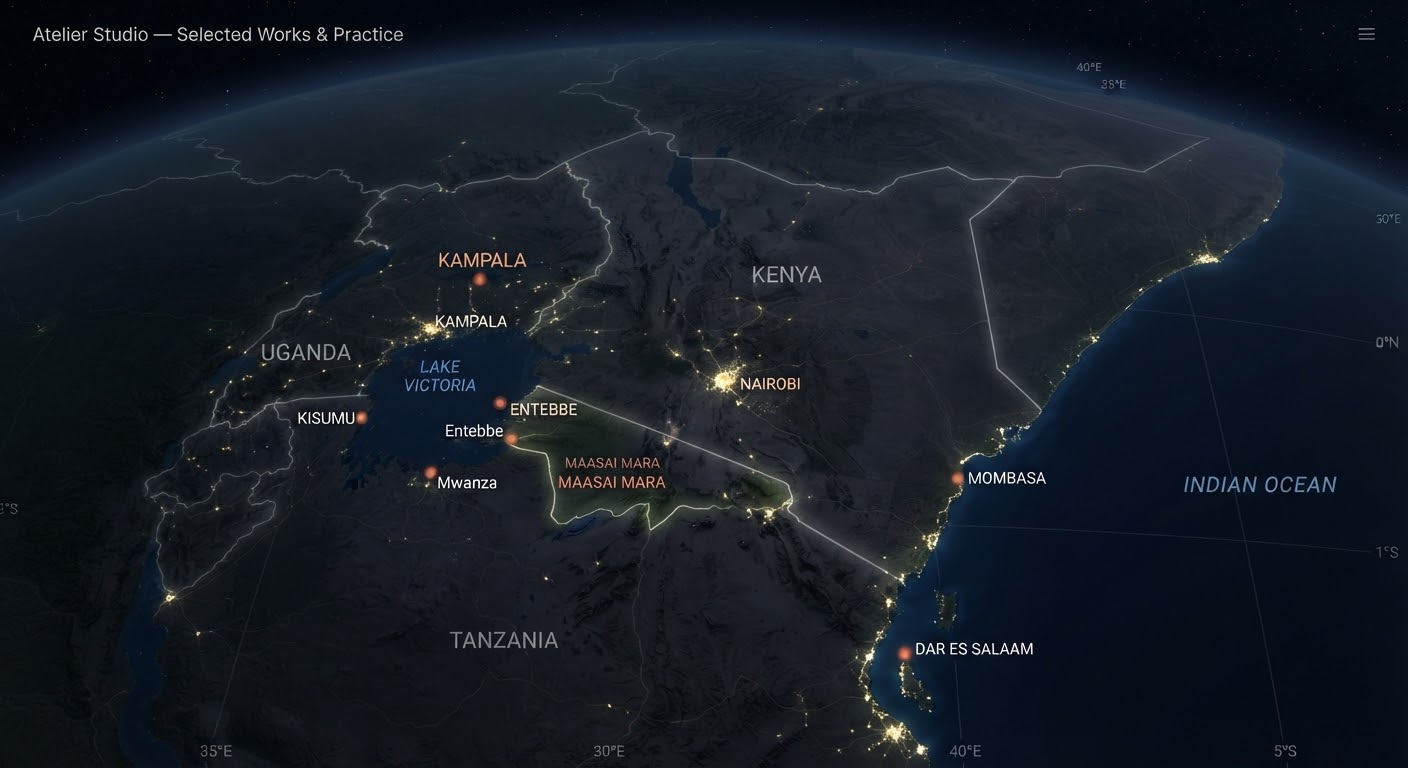
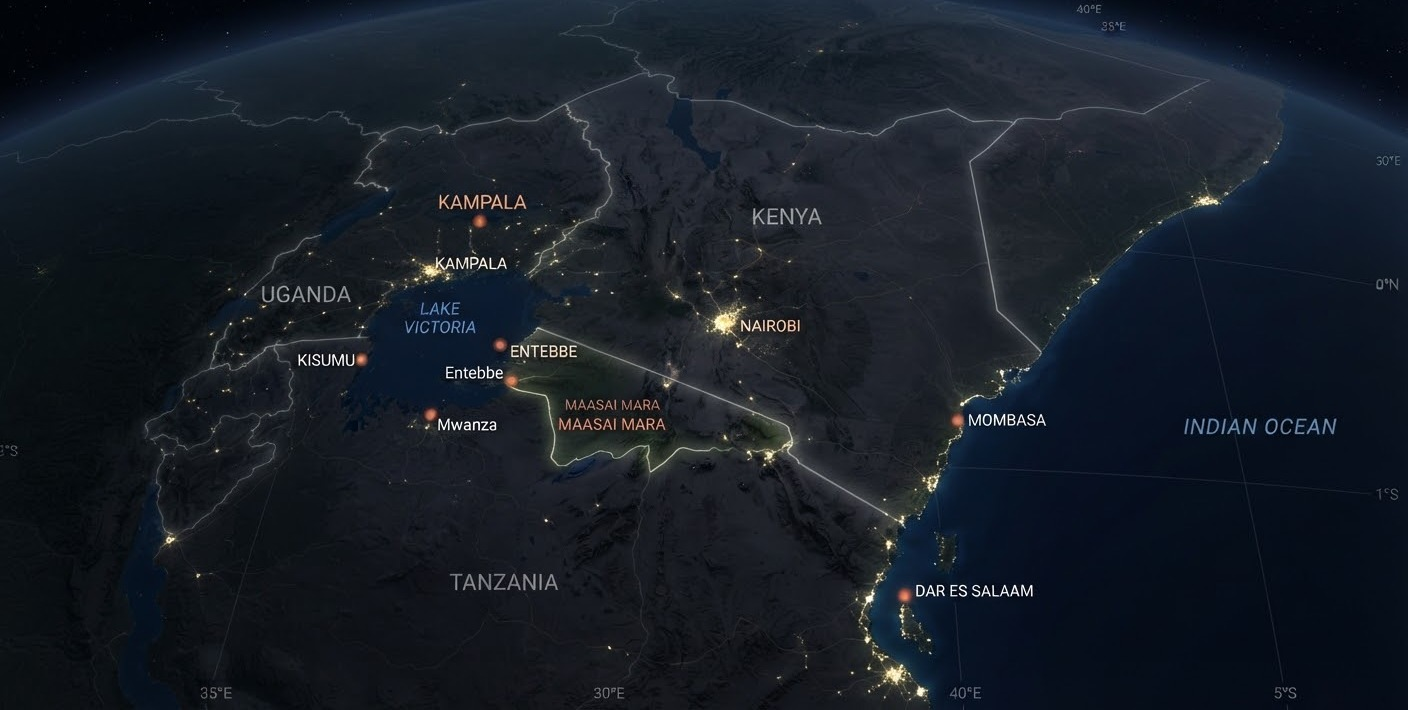
a4a3ae9b-7c84-43eb-8a53-c955de867875

diff --git a/src/components/yac/KenyaFootprint.tsx b/src/components/yac/KenyaFootprint.tsx
@@ -5,93 +5,186 @@ import { CHAMPIONS, COUNTY_META, type KenyaCounty, type YACProfile } from '@/lib
 
 /**
  * Sub-national footprint ledger.
- * Uses the exact satellite field-node map from the Atelier Editorial template
- * (upload/stitch_editorial_minimalist_portfolio.zip) — rendered at full opacity —
- * with the 12 YACs' own portraits pinned at their five operational counties.
- * Selecting any portrait opens that champion's full portfolio.
+ * Base: the exact satellite field-node map from the Atelier Editorial template
+ * (upload/stitch_editorial_minimalist_portfolio.zip), rendered undimmed.
+ *
+ * Pins are GEO-LOCKED: positions are expressed in the base image's own pixel
+ * space (1408 x 710, template chrome cropped) and the portrait plate keeps the
+ * image's aspect ratio, so
+ * pins sit on the rendered city glows at every viewport. County HQ anchors in
+ * the tight Lake Victoria basin carry a small terracotta dot at the true spot
+ * with a dashed cartographic leader line to the portrait cluster.
  */
-const PIN_POS: Record<KenyaCounty, { cls: string; label: 'above' | 'below' | 'right' }> = {
-  Nairobi: { cls: 'top-[52%] left-[53%]', label: 'below' },
-  Kisumu: { cls: 'top-[50%] left-[23%] -translate-x-[30px]', label: 'right' },
-  Siaya: { cls: 'top-[38%] left-[15%]', label: 'above' },
-  'Homa Bay': { cls: 'top-[62%] left-[23%]', label: 'below' },
-  Kilifi: { cls: 'top-[56%] left-[74%]', label: 'below' },
+const IMG_W = 1408;
+const IMG_H = 710;
+
+type PinSpec = {
+  /** True county-HQ position on the base image, in image px */
+  anchor: readonly [number, number];
+  /** Portrait-cluster centre, in image px (offset with a leader line when tight) */
+  cluster: readonly [number, number];
+  label: 'above' | 'below' | 'right';
 };
+
+const PIN: Record<KenyaCounty, PinSpec> = {
+  // Nairobi — on the base image's Nairobi city glow
+  Nairobi: { anchor: [725, 323], cluster: [725, 323], label: 'below' },
+  // Kisumu — on the rendered Kisumu shore glow; pair offset west into the dark shore
+  Kisumu: { anchor: [359, 358], cluster: [260, 367], label: 'below' },
+  // Siaya — north-west of Kisumu, north of the shore; cluster lifted into clear dark
+  Siaya: { anchor: [330, 332], cluster: [245, 227], label: 'above' },
+  // Homa Bay — across the water, south-south-west of Kisumu; cluster offset south-west
+  'Homa Bay': { anchor: [352, 394], cluster: [278, 514], label: 'below' },
+  // Kilifi — on the coastline, north-east of the Mombasa glow
+  Kilifi: { anchor: [1005, 392], cluster: [1005, 392], label: 'right' },
+};
+
+const pct = ([x, y]: readonly [number, number]) => ({
+  left: `${((x / IMG_W) * 100).toFixed(2)}%`,
+  top: `${((y / IMG_H) * 100).toFixed(2)}%`,
+});
 
 export function KenyaFootprint({ onSelect }: { onSelect: (c: YACProfile) => void }) {
   return (
     <div className="relative w-full overflow-hidden rounded-sm bg-[#0c1613] text-white">
       <div className="grid grid-cols-1 lg:grid-cols-12">
-        {/* ── Map canvas (exact template Kenya outline, undimmed) ── */}
-        <div className="relative min-h-[300px] overflow-hidden lg:col-span-8 lg:min-h-[430px]">
-          <div
-            role="img"
-            aria-label="Satellite field-node map of East Africa showing the Kenya country outline with city lights — Kampala, Kisumu, Eldoret, Nairobi and Mombasa"
-            className="h-full w-full bg-cover bg-center"
-            style={{ backgroundImage: "url('/kenya/field-nodes.jpg')" }}
-          />
+        {/* ── Map column — geo-locked satellite plate ── */}
+        <div className="flex flex-col justify-center gap-3 bg-[#0c1613] p-4 text-white sm:p-5 lg:col-span-8">
+          <div className="relative mx-auto aspect-[1408/710] w-full ring-1 ring-white/10">
+            <div
+              role="img"
+              aria-label="Satellite field-node map of East Africa by night showing the Kenya country outline with city lights — Kampala, Kisumu, Eldoret, Nairobi and Mombasa"
+              className="absolute inset-0 bg-cover bg-center"
+              style={{ backgroundImage: "url('/kenya/field-nodes.jpg')" }}
+            />
 
-          {/* Portrait pins — the champions themselves, pinned to their counties */}
-          {COUNTY_META.map((c) => {
-            const members = CHAMPIONS.filter((x) => x.county === c.name);
-            const pos = PIN_POS[c.name];
-            const isHub = c.name === 'Nairobi';
-            const chip = (
-              <div
-                className={`hidden w-max whitespace-nowrap rounded-[2px] px-2 py-1 text-[9px] font-semibold uppercase tracking-[0.12em] backdrop-blur-sm sm:block ${
-                  isHub
-                    ? 'bg-[#a4d0ba]/95 text-[#0c1613]'
-                    : 'bg-[#0c1613]/85 text-white/85'
-                }`}
-              >
-                {c.name} — {members.length} {members.length === 1 ? 'YAC' : 'YACs'}
-              </div>
-            );
-            return (
-              <div
-                key={c.name}
-                className={`absolute z-10 flex -translate-y-1/2 items-center ${
-                  pos.label === 'right' ? 'flex-row gap-1.5' : 'flex-col -translate-x-1/2'
-                } ${pos.cls}`}
-              >
-                {pos.label === 'above' && chip}
+            {/* Cartographic layer — dashed leader lines + true-position anchors */}
+            <svg
+              viewBox={`0 0 ${IMG_W} ${IMG_H}`}
+              preserveAspectRatio="none"
+              className="pointer-events-none absolute inset-0 h-full w-full"
+              aria-hidden="true"
+            >
+              {COUNTY_META.map((c) => {
+                const p = PIN[c.name];
+                if (p.anchor[0] === p.cluster[0] && p.anchor[1] === p.cluster[1]) return null;
+                return (
+                  <line
+                    key={c.name}
+                    x1={p.anchor[0]}
+                    y1={p.anchor[1]}
+                    x2={p.cluster[0]}
+                    y2={p.cluster[1]}
+                    stroke="rgba(243,239,234,0.38)"
+                    strokeWidth="1"
+                    strokeDasharray="3 3"
+                    vectorEffect="non-scaling-stroke"
+                  />
+                );
+              })}
+              {COUNTY_META.map((c) => {
+                const p = PIN[c.name];
+                if (p.anchor[0] === p.cluster[0] && p.anchor[1] === p.cluster[1]) return null;
+                return (
+                  <g key={c.name}>
+                    <circle
+                      cx={p.anchor[0]}
+                      cy={p.anchor[1]}
+                      r="7"
+                      fill="none"
+                      stroke="rgba(255,255,255,0.25)"
+                      strokeWidth="1"
+                      vectorEffect="non-scaling-stroke"
+                    />
+                    <circle
+                      cx={p.anchor[0]}
+                      cy={p.anchor[1]}
+                      r="3.5"
+                      fill="#D35A38"
+                      stroke="#0c1613"
+                      strokeWidth="1"
+                      vectorEffect="non-scaling-stroke"
+                    />
+                  </g>
+                );
+              })}
+            </svg>
+
+            {/* Portrait clusters — the champions themselves, pinned to their counties */}
+            {COUNTY_META.map((c) => {
+              const members = CHAMPIONS.filter((x) => x.county === c.name);
+              const pos = PIN[c.name];
+              const isHub = c.name === 'Nairobi';
+              const chip = (
                 <div
-                  className={
-                    members.length > 2
-                      ? 'grid grid-cols-3 gap-1'
-                      : `flex items-center ${members.length > 1 ? '-space-x-1.5' : ''}`
-                  }
+                  className={`hidden w-max whitespace-nowrap rounded-[2px] px-2 py-1 text-[9px] font-semibold uppercase tracking-[0.12em] backdrop-blur-sm sm:block ${
+                    isHub
+                      ? 'bg-[#a4d0ba]/95 text-[#0c1613]'
+                      : 'bg-[#0c1613]/85 text-white/85'
+                  }`}
                 >
-                  {members.map((ch) => (
-                    <button
-                      key={ch.id}
-                      type="button"
-                      onClick={() => onSelect(ch)}
-                      title={`${ch.fullName} — ${ch.county} County`}
-                      aria-label={`Open the portfolio of ${ch.fullName}, ${ch.county} County`}
-                      className="relative block h-8 w-8 shrink-0 overflow-hidden rounded-full border-2 border-[#0c1613] bg-forest ring-1 ring-white/30 transition-all duration-200 hover:z-20 hover:scale-[1.15] hover:ring-[#a4d0ba] focus-visible:outline-none focus-visible:ring-2 focus-visible:ring-[#a4d0ba] lg:h-9 lg:w-9"
-                    >
-                      {ch.headshotUrl && (
-                        <Image
-                          src={ch.headshotUrl}
-                          alt=""
-                          fill
-                          sizes="36px"
-                          className="object-cover"
-                        />
-                      )}
-                    </button>
-                  ))}
+                  {c.name} — {members.length} {members.length === 1 ? 'YAC' : 'YACs'}
                 </div>
-                {(pos.label === 'below' || pos.label === 'right') && chip}
-              </div>
-            );
-          })}
+              );
+              return (
+                <div
+                  key={c.name}
+                  className={`absolute z-10 flex -translate-x-1/2 -translate-y-1/2 items-center ${
+                    pos.label === 'right' ? '' : 'flex-col'
+                  }`}
+                  style={pct(pos.cluster)}
+                >
+                  {pos.label === 'above' && chip}
+                  <div className="relative">
+                    <div
+                      className={
+                        members.length > 2
+                          ? 'grid grid-cols-3 gap-1'
+                          : `flex items-center ${members.length > 1 ? '-space-x-1.5' : ''}`
+                      }
+                    >
+                      {members.map((ch) => (
+                        <button
+                          key={ch.id}
+                          type="button"
+                          onClick={() => onSelect(ch)}
+                          title={`${ch.fullName} — ${ch.county} County`}
+                          aria-label={`Open the portfolio of ${ch.fullName}, ${ch.county} County`}
+                          className="relative block h-7 w-7 shrink-0 overflow-hidden rounded-full border-2 border-[#0c1613] bg-forest ring-1 ring-white/30 transition-all duration-200 hover:z-20 hover:scale-[1.15] hover:ring-[#a4d0ba] focus-visible:outline-none focus-visible:ring-2 focus-visible:ring-[#a4d0ba] sm:h-8 sm:w-8 lg:h-9 lg:w-9"
+                        >
+                          {ch.headshotUrl && (
+                            <Image
+                              src={ch.headshotUrl}
+                              alt=""
+                              fill
+                              sizes="36px"
+                              className="object-cover"
+                            />
+                          )}
+                        </button>
+                      ))}
+                    </div>
+                    {pos.label === 'right' && (
+                      <div className="absolute left-full top-1/2 ml-2 -translate-y-1/2">
+                        {chip}
+                      </div>
+                    )}
+                  </div>
+                  {pos.label === 'below' && chip}
+                </div>
+              );
+            })}
+          </div>
 
-          {/* Coordinate tag */}
-          <div className="absolute bottom-4 left-4 flex items-center gap-2 rounded-[2px] bg-[#0c1613]/85 px-3 py-1.5 text-[9px] font-semibold uppercase tracking-[0.14em] text-white/55 backdrop-blur-sm">
-            <span className="h-1 w-1 rounded-full bg-[#a4d0ba]" />
-            12 YACs · 5 Counties · Lat 0.0236° S, Lon 37.9062° E
+          {/* Caption strip — replaces the coordinate chip, fills the frame below the plate */}
+          <div className="flex items-center justify-between gap-4">
+            <span className="caps-label flex items-center gap-2 text-[9px] text-white/55">
+              <span className="h-1 w-1 rounded-full bg-[#a4d0ba]" />
+              12 YACs · 5 Counties · Lat 0.0236° S, Lon 37.9062° E
+            </span>
+            <span className="caps-label hidden text-[9px] text-white/40 sm:block">
+              Base — East Africa by night
+            </span>
           </div>
         </div>
 

diff --git a/scripts/mark_map.py b/scripts/mark_map.py
@@ -1,0 +1,24 @@
+"""Mark detected blobs on the map and save overview + zoomed crops for identification."""
+from PIL import Image, ImageDraw
+
+im = Image.open('/home/z/my-project/public/kenya/field-nodes.jpg').convert('RGB')
+
+blobs = [
+    (768, 383), (534, 409), (725, 380), (331, 418), (986, 477), (483, 431),
+    (1025, 478), (1014, 649), (438, 325), (480, 483), (449, 483), (467, 320),
+    (492, 322), (452, 431), (788, 501), (932, 541), (471, 260), (869, 656),
+    (545, 460), (665, 518), (935, 648), (980, 649),
+]
+
+d = ImageDraw.Draw(im)
+for i, (x, y) in enumerate(blobs):
+    d.ellipse([x - 9, y - 9, x + 9, y + 9], outline=(255, 60, 60), width=3)
+    d.text((x + 12, y - 6), str(i), fill=(255, 255, 0))
+
+im.save('/home/z/my-project/scripts/map_marked.png')
+
+# Zoomed crop: Lake Victoria basin (western cluster)
+im.crop((150, 300, 750, 650)).resize((1200, 700)).save('/home/z/my-project/scripts/map_zoom_lake.png')
+# Zoomed crop: Nairobi / central
+im.crop((550, 250, 1100, 560)).resize((1100, 620)).save('/home/z/my-project/scripts/map_zoom_central.png')
+print('saved')

diff --git a/scripts/analyze_kenya_map.py b/scripts/analyze_kenya_map.py
@@ -1,0 +1,24 @@
+"""Detect city-light blobs on the Kenya field-node map and fit a lon/lat -> pixel model."""
+from PIL import Image
+import numpy as np
+from scipy import ndimage
+
+im = Image.open('/home/z/my-project/public/kenya/field-nodes.jpg').convert('RGB')
+W, H = im.size
+a = np.asarray(im).astype(float)
+lum = 0.2126 * a[..., 0] + 0.7152 * a[..., 1] + 0.0722 * a[..., 2]
+
+mask = lum > 170
+mask = ndimage.binary_dilation(mask, iterations=1)
+lab, n = ndimage.label(mask)
+sizes = ndimage.sum(mask, lab, range(1, n + 1))
+cents = ndimage.center_of_mass(mask, lab, range(1, n + 1))
+
+order = np.argsort(sizes)[::-1]
+print(f"image {W}x{H}, {n} blobs; top 30 by size:")
+print(f"{'rank':>4} {'x':>5} {'y':>5} {'size':>6} {'peak':>5}")
+for r, i in enumerate(order[:30]):
+    cy, cx = cents[i]
+    ys, xs = np.where(lab == i + 1)
+    peak = lum[ys, xs].max()
+    print(f"{r:>4} {cx:>5.0f} {cy:>5.0f} {sizes[i]:>6.0f} {peak:>5.0f}")

diff --git a/scripts/crop_map_chrome.py b/scripts/crop_map_chrome.py
@@ -1,0 +1,14 @@
+"""Crop the template chrome strip off the top of the Kenya base map (both site asset and user download copy)."""
+from PIL import Image
+
+CROP_TOP = 58  # removes 'Atelier Studio — Selected Works & Practice' + menu icon
+
+for path in (
+    '/home/z/my-project/public/kenya/field-nodes.jpg',
+    '/home/z/my-project/download/Kenya-map-high-res.jpg',
+):
+    im = Image.open(path)
+    w, h = im.size
+    out = im.crop((0, CROP_TOP, w, h))
+    out.save(path, quality=92)
+    print(f'{path}: {w}x{h} -> {out.size[0]}x{out.size[1]}')

diff --git a/worklog.md b/worklog.md
@@ -134,3 +134,22 @@ Stage Summary:
 - Stanley's dossier now carries his real, complete biography (zero-inference respected — verbatim source text)
 - Map renders at full photographic quality; portraits of the YACs themselves are now the map pins, each clickable into its portfolio
 - All flows re-verified end-to-end (desktop, mobile, modal, zero console errors)
+
+---
+Task ID: 7
+Agent: Super Z (main agent)
+Task: Fix map pin positioning per user's reference screenshots (Kisumu/Nairobi/Homabay/Kilifi.png): "the positioning is abit off on the map... images showing where the actuall places are"
+
+Work Log:
+- Diagnosed root cause: pins were % of the map PANEL while the base image is cropped differently at every viewport (bg-cover) — pin drift was structural, not tuning
+- Detected city-light blobs on field-nodes.jpg (scipy labeling, 279 blobs) and identified the render's own anchors: Nairobi glow (725,381), Kisumu shore glow (359,416), Mombasa glow (956,478), ENTEBBE/Mwanza/KAMPALA labels; render is a stylized 3D perspective (non-linear graticule), so pins were matched to rendered features + real-world directional relationships instead of a naive lat/lon fit
+- Rewrote KenyaFootprint as a GEO-LOCKED plate: aspect-locked layer (matches image exactly) with pins expressed in image pixel space — identical placement at every viewport; caption strip (coordinates + "Base — East Africa by night") replaces the old floating chip
+- New true positions: Nairobi on its glow; Kilifi on the coastline NE of Mombasa over the Indian Ocean (per user's Kilifi.png); Kisumu on its shore glow; Homa Bay SSW across the water; Siaya NW and north (real relationships per user's Google references)
+- Lake Victoria basin trio is genuinely tight on this render, so added authentic cartography: terracotta anchor dots + white halo rings at true spots with dashed leader lines to offset portrait clusters (Siaya NW, Kisumu W, Homa Bay SW into dark water/border areas); collision-checked at 390/640/1024/1440 (photo sizes h-7/sm-8/lg-9)
+- Cropped template chrome ("Atelier Studio — Selected Works & Practice" + menu icon, top 58px) off the base image — site asset AND download/Kenya-map-high-res.jpg now 1408x710 so the user's enhancement copy matches the site base exactly
+- Verified: bun lint clean; agent-browser — desktop 1440 (east/west zooms: anchors on glows, leaders correct, Kilifi coastal), mobile 390 (clusters distinct, no overlap), Ashleyna pin click → correct modal, zero console errors
+
+Stage Summary:
+- Map pins now sit at the actual places shown in the user's reference images, locked to the image itself so they cannot drift across viewports
+- Template chrome removed from the base map (more authentic, less "AI/template" artifact)
+- The user's enhancement copy (download/Kenya-map-high-res.jpg) is the same cropped 1408x710 base — drop-in replacement safe
